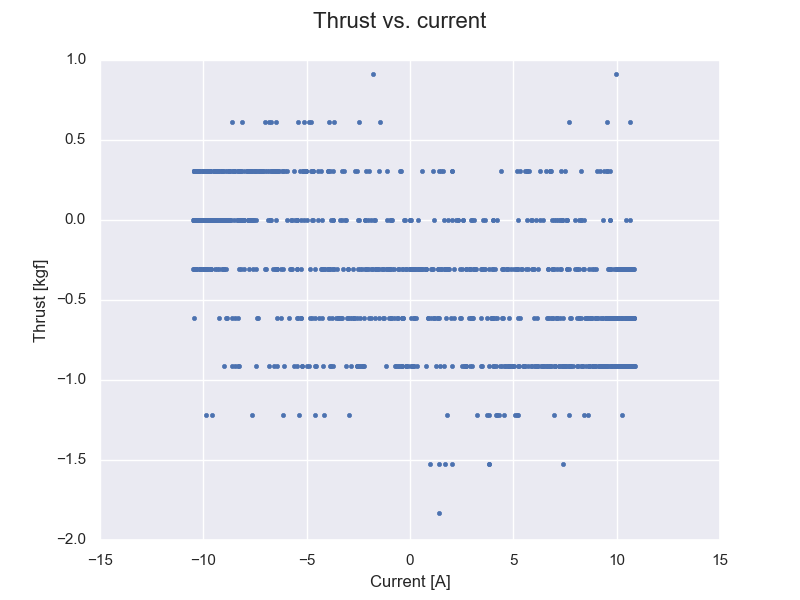
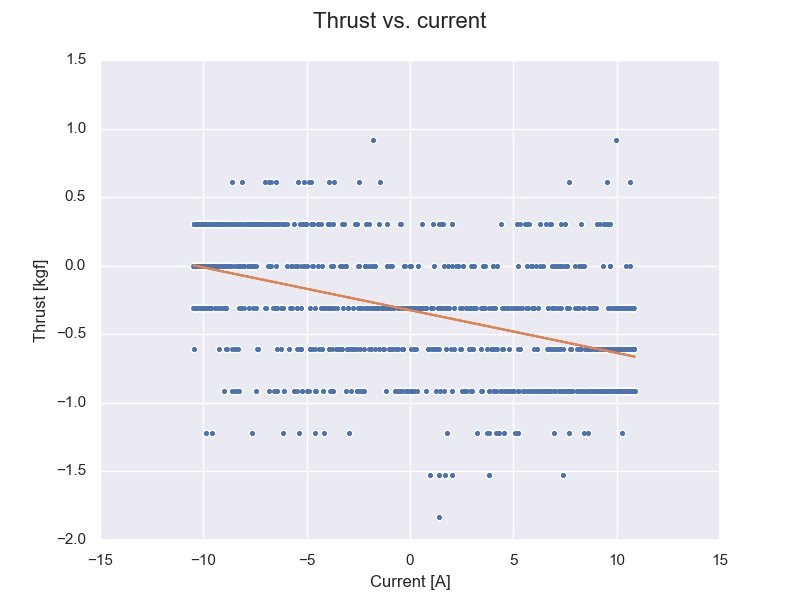
Push for 2022-06-15

diff --git a/main.py b/main.py
@@ -5,6 +5,7 @@ import pandas as pd
 import matplotlib as mpl
 import matplotlib.pyplot as plt; plt.style.use('classic')
 import seaborn as sns; sns.set()
+from scipy import stats
 
 ### Function definitions ###
 # func: user_in
@@ -22,7 +23,7 @@ def user_in(msg):
             return result
 
 ### Details for saving figures/files of interest, change naming style as preferred ###
-my_path = os.path.dirname(__file__) 
+my_path = os.path.dirname(__file__) # path where script is saved
 data_folder = "\\test_data"
 ts_file = "\\ts.png"
 ct_file = "\\ct.png"
@@ -45,7 +46,7 @@ while True:
 
 ### Parse file and collect force, current and voltage data points into lists ###
 # Try to make modular eventually, as in being able to parse any file loosely formatted the same way 
-force = []; current = []; voltage = []; time = []
+force = []; current = []; voltage = []; time = []; time2 = []
 line = 0
 current_line = lines[line].split()
 while "<end" not in current_line and line < len(lines) - 1:
@@ -83,7 +84,7 @@ for t in range(len(time)):
 ### Create dataframe with Pandas ###
 df_data = pd.DataFrame({"Force": force, "Current": current, "Voltage": voltage, "Power": power}, index = time)
 
-### Graph time series plots with Matplotlib ###
+### Graph raw time series plots with Matplotlib ###
 figt, axt = plt.subplots(3, constrained_layout = True) #creates a figure and a set of subplots, subplots() returns tuple of (Figure, Axes)
 figt.suptitle("Current, voltage, force vs. time (raw)", fontsize = 16)
 for plot in range(len(axt)): axt[plot].set_xlabel("Time [s]")
@@ -109,13 +110,28 @@ axc.set_xlabel("Current [A]")
 
 # For power, I need to figure out how to plot max power for reverse direction (this will do for now)
 pmin = power[0]
-for i in range(len(power) - 1):
+for i in range(len(power)):
     if(abs(power[i]) > abs(pmin) and voltage[i] < 0 and current[i] < 0): pmin = power[i]
 
 ### Determine and store peak values from raw data into Pandas dataframe ###
 peaks = np.array([np.amax(force), np.amax(current), np.amax(voltage), np.amax(power)])
-troughs = np.array([np.min(force), np.amin(current), np.amin(voltage), pmin])
+troughs = np.array([abs(np.min(force)), abs(np.amin(current)), abs(np.amin(voltage)), pmin])
 df_extrema = pd.DataFrame({"Max forward (raw)": peaks, "Max reverse (raw)": troughs}, index = ["Force", "Current", "Voltage", "Power"])
+
+### Use Linear Regression to determine thrust vs. current slope (forward and reverse) ###
+slope, intercept, r, p, std_err = stats.linregress(current, force)
+
+def myfunc(current):
+  return slope * current + intercept
+
+mymodel = list(map(myfunc, current))
+
+plt.scatter(current, force)
+plt.plot(current, mymodel)
+print(r)
+plt.show()
+
+### Determine thrust vs. current intercepts -> get length of dead band ###
 
 ### Save figures and files ###
 if not os.path.isdir(my_path + data_folder + fig_folder):
